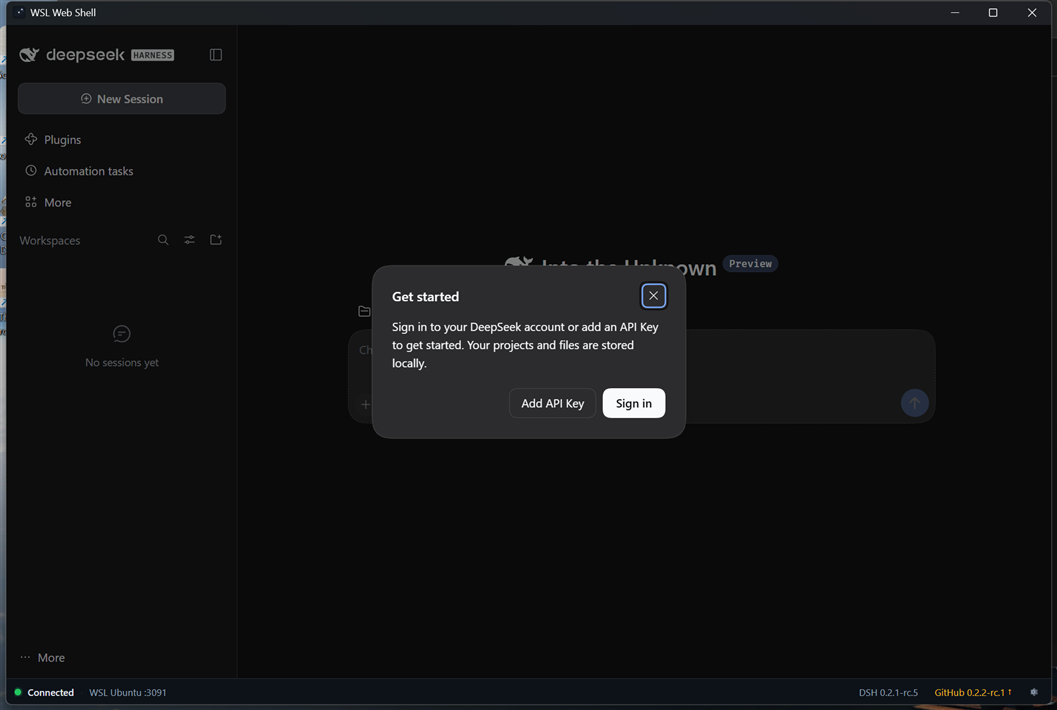
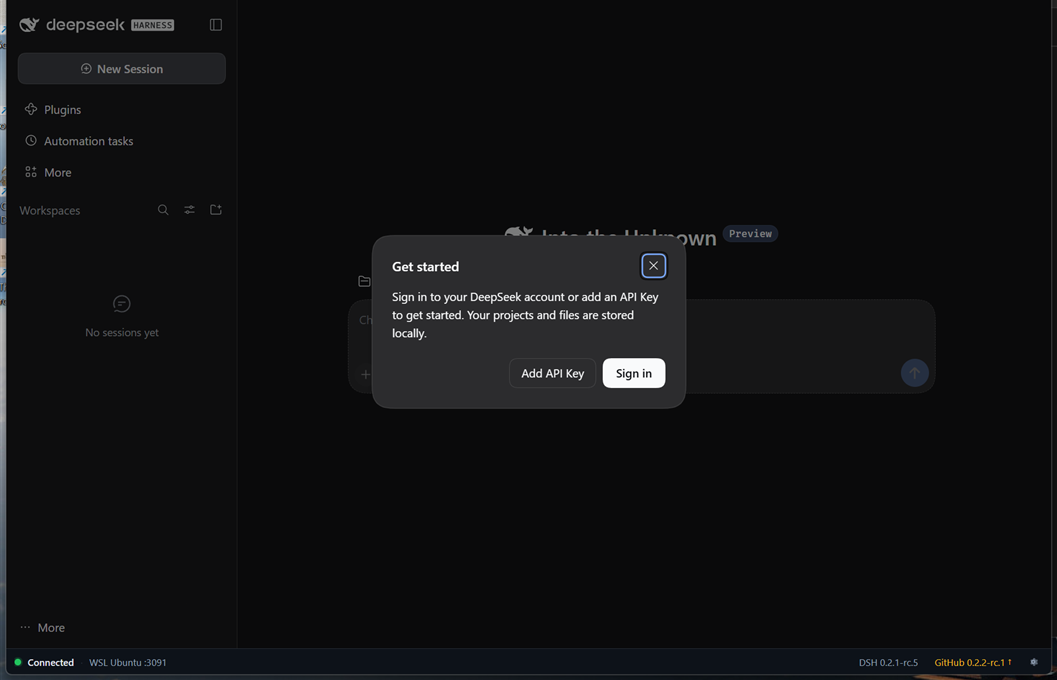
docs(readme): center the tray screenshot and crop the pre-rename title bar from the hero
The hero comes from the last real acceptance run, which predates the rename: the
window title bar in that capture still said "WSL Web Shell", so it is cropped and
the shot shows only the upstream WebUI and the app-owned footer bar.

diff --git a/README.ru.md b/README.ru.md
@@ -31,7 +31,7 @@ DeepSeek Harness, не трогает официальную установку 
 
 **Окно, которое ведёт себя как приложение.**
 
-![Меню трея: Focus window, Status, Restart WebUI, Settings, Quit](docs/media/tray-menu.png)
+<p align="center"><img src="docs/media/tray-menu.png" width="300" alt="Меню трея: Focus window, Status, Restart WebUI, Settings, Quit"></p>
 
 Закрытие окна оставляет приложение в трее: *Focus window*, живой *Status*,
 *Restart WebUI*, *Settings*, *Quit*. Бэкенд под присмотром: если он упадёт, DSH WSL

diff --git a/README.md b/README.md
@@ -31,7 +31,7 @@ your global `npm` prefix or your projects.
 
 **A window that behaves like an app.**
 
-![The tray menu: Focus window, Status, Restart WebUI, Settings, Quit](docs/media/tray-menu.png)
+<p align="center"><img src="docs/media/tray-menu.png" width="300" alt="The tray menu: Focus window, Status, Restart WebUI, Settings, Quit"></p>
 
 Closing the window keeps the app in the tray: *Focus window*, live *Status*,
 *Restart WebUI*, *Settings*, *Quit*. The backend is supervised — if it dies, DSH WSL
